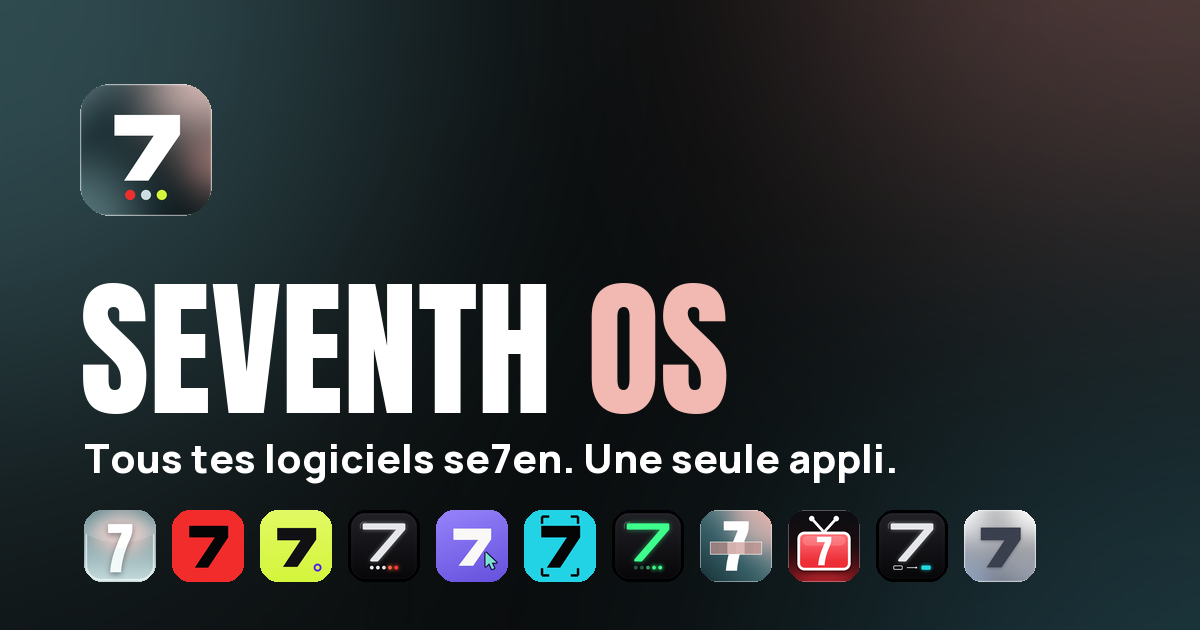
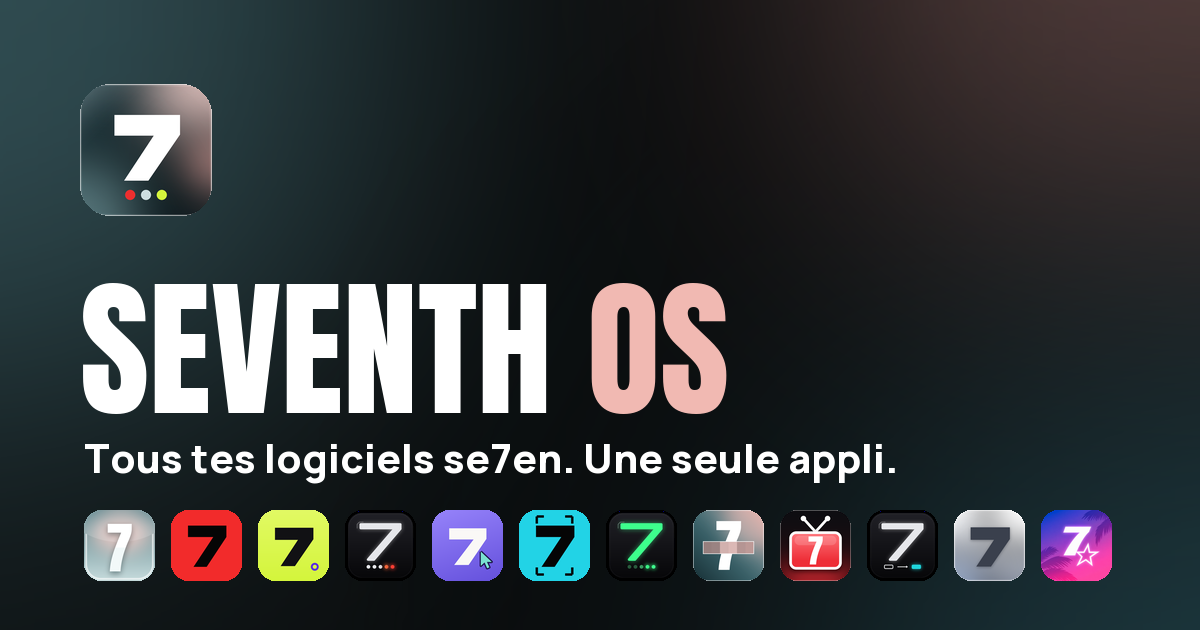
Leonida Crew 2.0.0 ajouté au site

Changed region(s): [[0.1233, 0.7841, 0.925, 0.9349], [0.0925, 0.9048, 0.1233, 0.9349]]

diff --git a/public/index.html b/public/index.html
@@ -9,7 +9,7 @@
 <meta property="og:type" content="website">
 <meta property="og:title" content="Seventh OS — toutes les applis se7en">
 <meta property="og:description" content="Une seule appli pour installer et mettre à jour tous les logiciels se7en. Gratuit, pour Windows.">
-<meta property="og:image" content="https://seventh-os.pages.dev/assets/og.png?v=ia-dow-dua-voi-vis-cli-aut-cen-ipt-sou-bro">
+<meta property="og:image" content="https://seventh-os.pages.dev/assets/og.png?v=ia-dow-dua-voi-vis-cli-aut-cen-ipt-sou-bro-leo">
 <meta name="twitter:card" content="summary_large_image">
 <link rel="icon" type="image/png" href="/assets/icons/seventh-os.png">
 <link rel="preload" href="/assets/fonts/Anton-Regular.ttf" as="font" type="font/ttf" crossorigin>
@@ -38,7 +38,7 @@
       <p class="eyebrow"><span class="dot"></span> Gratuit · Windows 10 et 11</p>
       <h1>SEVENTH <i>OS</i></h1>
       <p class="punch">Tous tes logiciels se7en.<br>Une seule appli pour les gérer.</p>
-      <p class="lead">Installe, ouvre et mets à jour <b data-count>11</b> applis pour créer, streamer et jouer, en un clic. Plus de liens à chercher, plus de versions à suivre.</p>
+      <p class="lead">Installe, ouvre et mets à jour <b data-count>12</b> applis pour créer, streamer et jouer, en un clic. Plus de liens à chercher, plus de versions à suivre.</p>
       <div class="cta">
         <a class="btn primary big dl-link" href="/download">
           <svg viewBox="0 0 24 24" width="20" height="20" aria-hidden="true"><path fill="currentColor" d="M3 5.1 10.4 4v7.1H3V5.1Zm0 13.8 7.4 1.1v-7H3v5.9Zm8.3 1.2L21 21.5v-8.4h-9.7v7Zm0-16.2v7.2H21V2.5l-9.7 1.4Z"/></svg>
@@ -77,7 +77,7 @@
   <section class="section" id="applis">
     <div class="section-head">
       <p class="kicker">Le catalogue</p>
-      <h2><span data-count>11</span> applis. Et ça continue.</h2>
+      <h2><span data-count>12</span> applis. Et ça continue.</h2>
       <p class="sub">Chaque nouvelle appli se7en arrive directement dans Seventh OS, sans rien retélécharger.</p>
     </div>
     <div class="apps" id="apps"></div>

diff --git a/public/app.js b/public/app.js
@@ -15,6 +15,7 @@ const FALLBACK = [
   { id: "se7en-iptv-player", name: "se7en IPTV Player", subtitle: "Lecteur IPTV", accent: "#EE2E37", tagline: "Ton abonnement Xtream Codes ou ta liste M3U, en grand, avec le guide des programmes." },
   { id: "se7en-source", name: "se7en Source", subtitle: "Entrées d'écran · PC ↔ console", accent: "#1FD6DD", tagline: "Passe ton écran du PC à ta PS5 en un clic, sans toucher à ses boutons." },
   { id: "se7en-browser", name: "se7en Browser", subtitle: "Navigateur · IA locale", accent: "#C9CED8", tagline: "Un navigateur en verre, avec une IA qui tourne sur ton PC." },
+  { id: "leonida-crew", name: "Leonida Crew", subtitle: "GTA VI · Communauté", accent: "#FF3D8B", tagline: "Le QG des joueurs de GTA VI : chat, bons tuyaux sur la carte et photos." },
 ];
 
 const el = (tag, cls, text) => { const n = document.createElement(tag); if (cls) n.className = cls; if (text != null) n.textContent = text; return n; };
